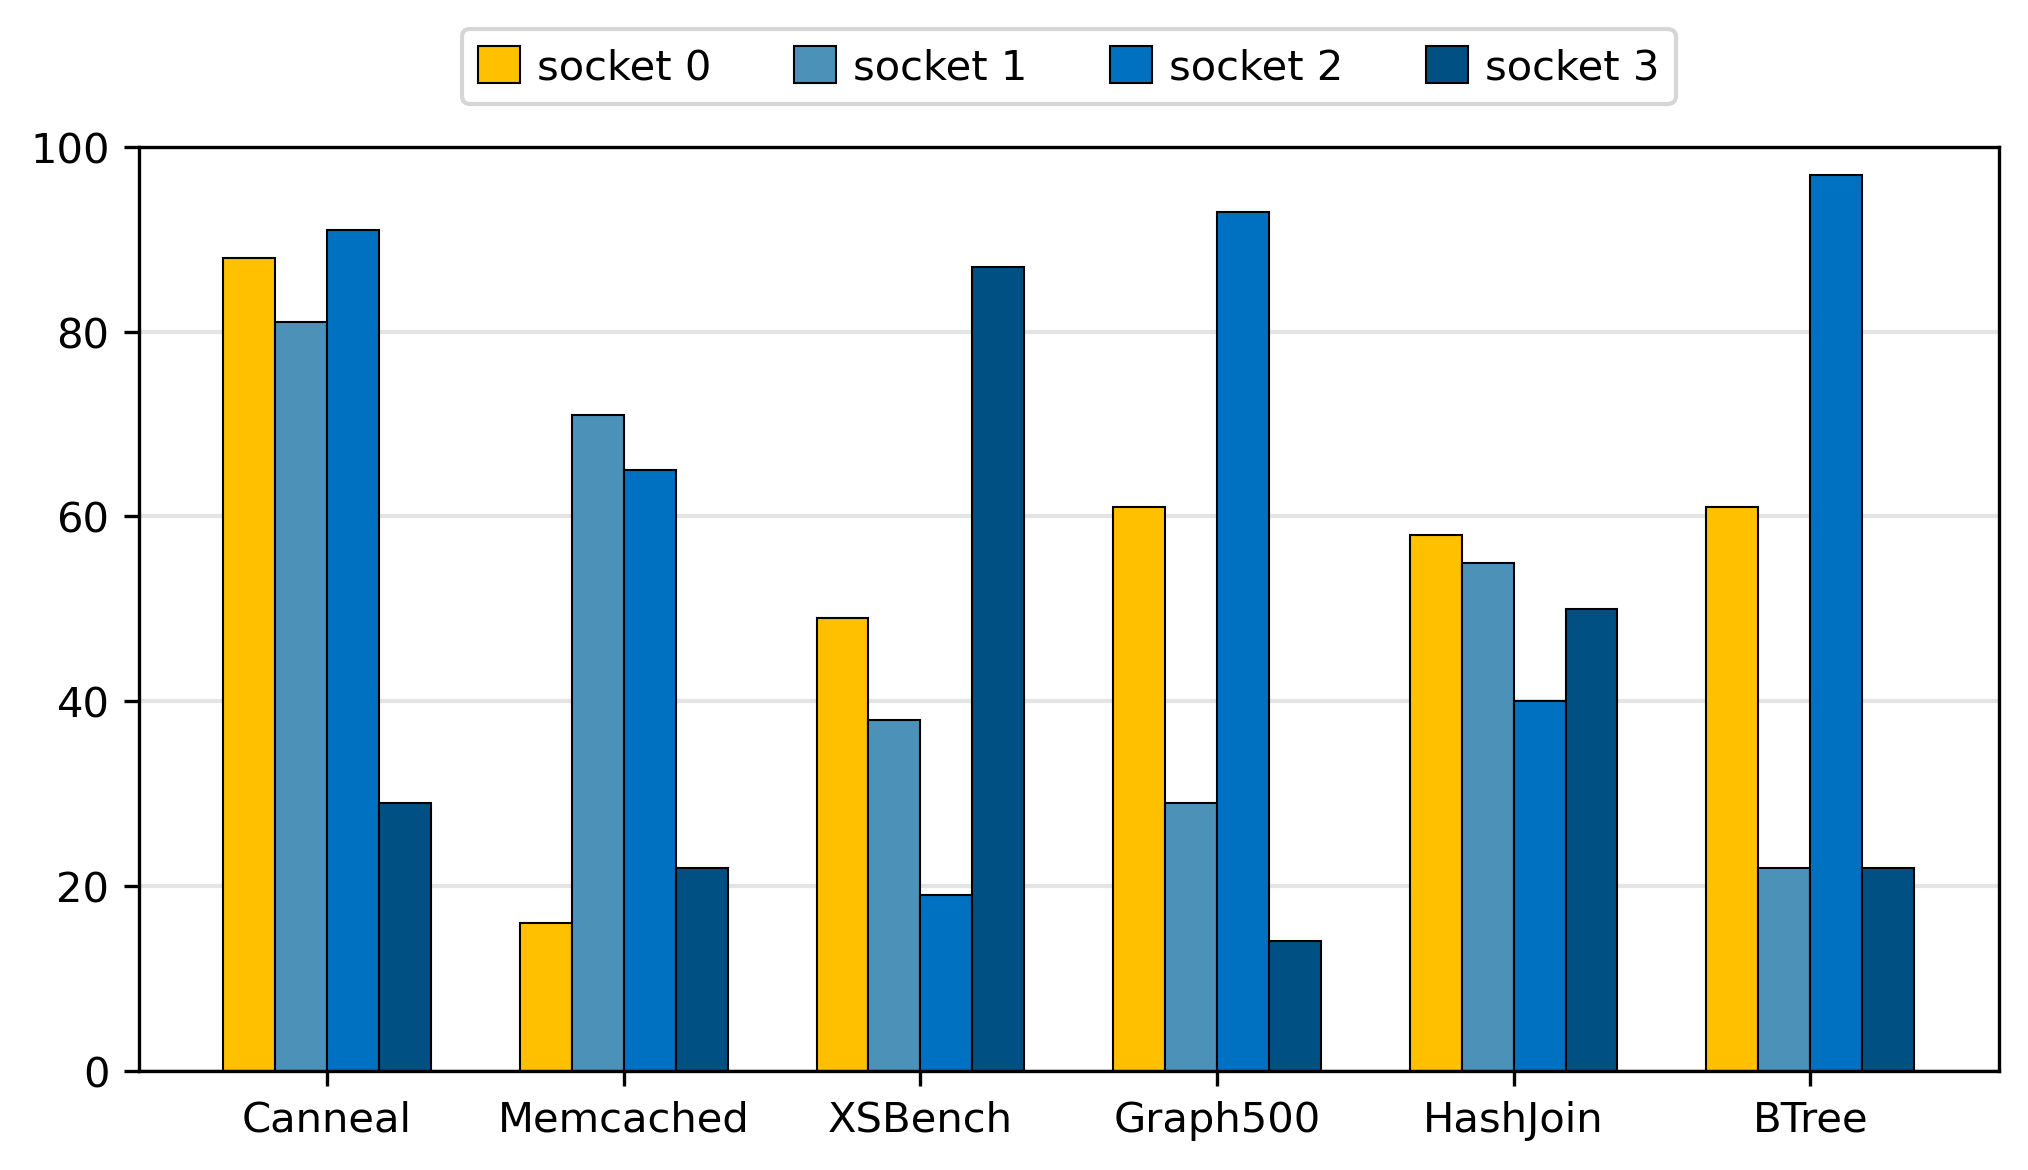
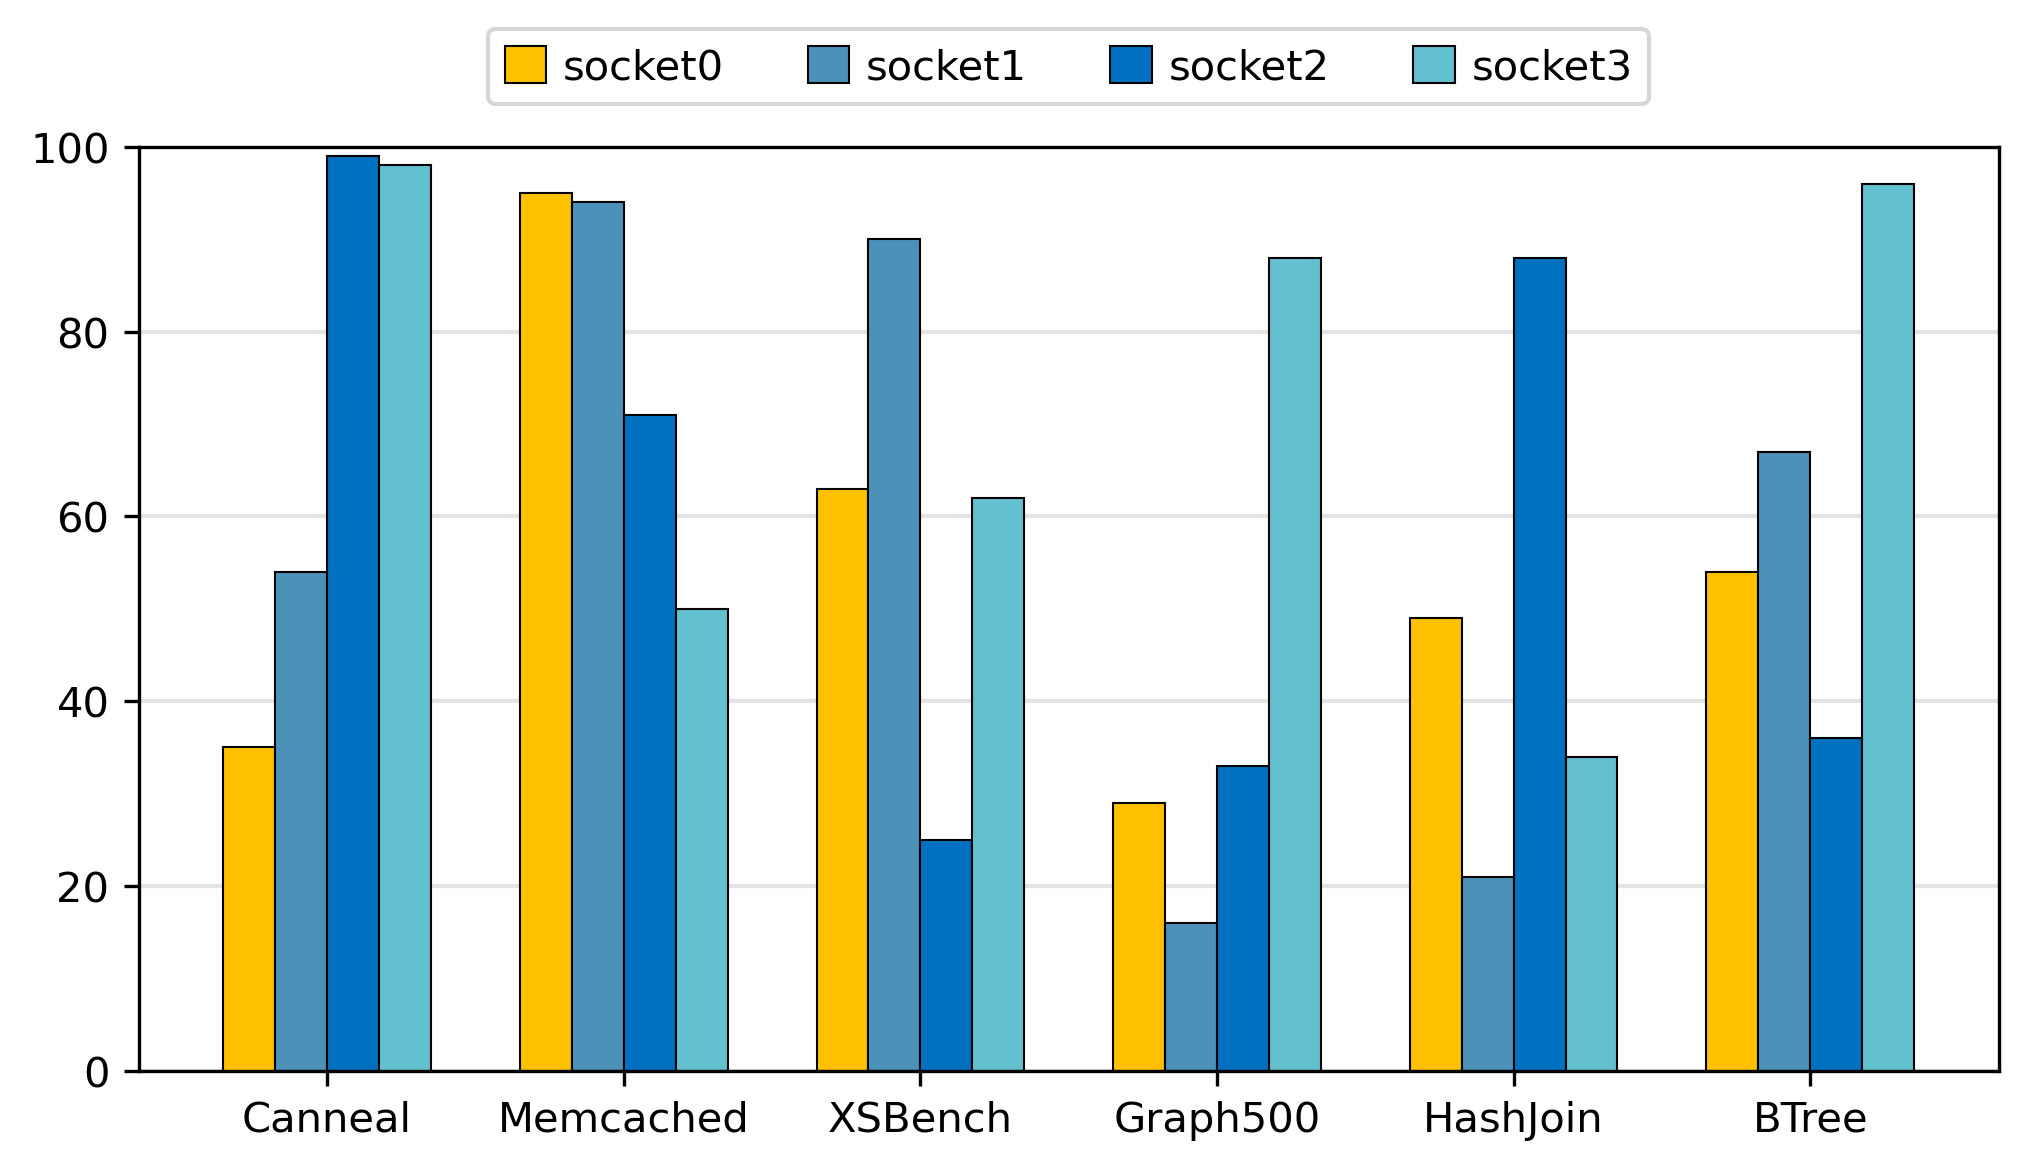
[dev] : change four color

diff --git a/docs/articles/md-docs/使用方法/index.html b/docs/articles/md-docs/使用方法/index.html
@@ -15,7 +15,7 @@
 
 <body class="light">
     <a href="https://github.com/luzhixing12345/paperplotlib.git" target="_blank" class="github-corner" aria-label="View source on GitHub"><svg width="80" height="80" viewBox="0 0 250 250" style="fill:#151513; color:#fff; position: absolute; top: 0; border: 0; right: 0;" aria-hidden="true"><path d="M0,0 L115,115 L130,115 L142,142 L250,250 L250,0 Z"></path><path d="M128.3,109.0 C113.8,99.7 119.0,89.6 119.0,89.6 C122.0,82.7 120.5,78.6 120.5,78.6 C119.2,72.0 123.4,76.3 123.4,76.3 C127.3,80.9 125.5,87.3 125.5,87.3 C122.9,97.6 130.6,101.9 134.4,103.2" fill="currentColor" style="transform-origin: 130px 106px;" class="octo-arm"></path><path d="M115.0,115.0 C114.9,115.1 118.7,116.5 119.8,115.4 L133.7,101.6 C136.9,99.2 139.9,98.4 142.2,98.6 C133.8,88.0 127.5,74.4 143.8,58.0 C148.5,53.4 154.0,51.2 159.7,51.0 C160.3,49.4 163.2,43.6 171.4,40.1 C171.4,40.1 176.1,42.5 178.8,56.2 C183.1,58.6 187.2,61.8 190.9,65.4 C194.5,69.0 197.7,73.2 200.1,77.6 C213.8,80.2 216.3,84.9 216.3,84.9 C212.7,93.1 206.9,96.0 205.4,96.6 C205.1,102.4 203.0,107.8 198.3,112.5 C181.9,128.9 168.3,122.5 157.7,114.1 C157.9,116.9 156.7,120.9 152.7,124.9 L141.0,136.5 C139.8,137.7 141.6,141.9 141.8,141.8 Z" fill="currentColor" class="octo-body"></path></svg></a><style>.github-corner:hover .octo-arm{animation:octocat-wave 560ms ease-in-out}@keyframes octocat-wave{0%,100%{transform:rotate(0)}20%,60%{transform:rotate(-25deg)}40%,80%{transform:rotate(10deg)}}@media (max-width:500px){.github-corner:hover .octo-arm{animation:none}.github-corner .octo-arm{animation:octocat-wave 560ms ease-in-out}}</style>
-    <div class="header-navigator"><ul><li><a href="#h1-0">使用方法</a><ul><li><a href="#h2-1">基础绘图</a></li></ul><ul><li><a href="#h2-2">配色</a></li></ul><ul><li><a href="#h2-3">其他配置</a></li></ul><ul><li><a href="#h2-4">长图</a></li></ul><ul><li><a href="#h2-5">x y 坐标</a></li></ul><ul><li><a href="#h2-6">y 轴范围</a></li></ul></li></ul></div><div class='markdown-body'><h1 id="h1-0">使用方法</h1><p>使用 paperplotlib(下称ppl) 只需要四步</p><ol start="1"><li>初始化一个实例对象 <code>graph</code></li></ol><ol start="2"><li>准备好你的数据, 将数据添加到 <code>graph</code> 中</li></ol><ol start="3"><li>根据需要适当修改属性</li></ol><ol start="4"><li>保存图片</li></ol><p>ppl 为您简化了初始化, 基础配置, 配色, 数据位置等一些小细节, 您可以非常简单方便的绘制一张美观的数据图</p><h2 id="h2-1">基础绘图</h2><p>ppl 提供了两种数据图表的绘图, 柱状图 (BarGraph) 和 折线图 (LineGraph)</p><p>两个类均只有<b>两个传入数据的接口</b>: <code>plot</code> <code>plot_2d</code></p><p><code>plot</code> 用于绘制简单的一维数据, 如下所示, 传入 x,y 坐标即可</p><pre class="language-python"><code><span class="Token IMPORT">import</span><span class="Token SPACE"> </span><span class="Token ImportLibName ID">paperplotlib</span><span class="Token SPACE"> </span><span class="Token AS">as</span><span class="Token SPACE"> </span><span class="Token ID">ppl</span><span class="Token LF">
+    <div class="header-navigator"><ul><li><a href="#h1-0">使用方法</a><ul><li><a href="#h2-1">基础绘图</a></li></ul><ul><li><a href="#h2-2">配色</a></li></ul><ul><li><a href="#h2-3">其他配置</a><ul><li><a href="#h3-4">长图</a></li></ul><ul><li><a href="#h3-5">x y 坐标</a></li></ul><ul><li><a href="#h3-6">y 轴范围</a></li></ul></li></ul></li></ul></div><div class='markdown-body'><h1 id="h1-0">使用方法</h1><p>使用 paperplotlib(下称ppl) 只需要四步</p><ol start="1"><li>初始化一个实例对象 <code>graph</code></li></ol><ol start="2"><li>准备好你的数据, 将数据添加到 <code>graph</code> 中</li></ol><ol start="3"><li>根据需要适当修改属性</li></ol><ol start="4"><li>保存图片</li></ol><p>ppl 为您简化了初始化, 基础配置, 配色, 数据位置等一些小细节, 您可以非常简单方便的绘制一张美观的数据图</p><h2 id="h2-1">基础绘图</h2><p>ppl 提供了两种数据图表的绘图, 柱状图 (BarGraph) 和 折线图 (LineGraph)</p><p>两个类均只有<b>两个传入数据的接口</b>: <code>plot</code> <code>plot_2d</code></p><p><code>plot</code> 用于绘制简单的一维数据, 如下所示, 传入 x,y 坐标即可</p><pre class="language-python"><code><span class="Token IMPORT">import</span><span class="Token SPACE"> </span><span class="Token ImportLibName ID">paperplotlib</span><span class="Token SPACE"> </span><span class="Token AS">as</span><span class="Token SPACE"> </span><span class="Token ID">ppl</span><span class="Token LF">
 </span><span class="Token LF">
 </span><span class="Token ID">x</span><span class="Token SPACE"> </span><span class="Token ASSIGN">=</span><span class="Token SPACE"> </span><span class="Token BraceDepth-0 LSQUAR_PAREN">[</span><span class="Token NUMBER">2</span><span class="Token COMMA">,</span><span class="Token SPACE"> </span><span class="Token NUMBER">4</span><span class="Token COMMA">,</span><span class="Token SPACE"> </span><span class="Token NUMBER">8</span><span class="Token COMMA">,</span><span class="Token SPACE"> </span><span class="Token NUMBER">16</span><span class="Token COMMA">,</span><span class="Token SPACE"> </span><span class="Token NUMBER">32</span><span class="Token BraceDepth-0 RSQUAR_PAREN">]</span><span class="Token LF">
 </span><span class="Token ID">y</span><span class="Token SPACE"> </span><span class="Token ASSIGN">=</span><span class="Token SPACE"> </span><span class="Token BraceDepth-0 LSQUAR_PAREN">[</span><span class="Token NUMBER">2</span><span class="Token COMMA">,</span><span class="Token SPACE"> </span><span class="Token NUMBER">4</span><span class="Token COMMA">,</span><span class="Token SPACE"> </span><span class="Token NUMBER">8</span><span class="Token COMMA">,</span><span class="Token SPACE"> </span><span class="Token NUMBER">16</span><span class="Token COMMA">,</span><span class="Token SPACE"> </span><span class="Token NUMBER">32</span><span class="Token BraceDepth-0 RSQUAR_PAREN">]</span><span class="Token LF">
@@ -40,8 +40,8 @@
 </span><span class="Token LF">
 </span><span class="Token ID">graph</span><span class="Token SPACE"> </span><span class="Token ASSIGN">=</span><span class="Token SPACE"> </span><span class="Token ID">ppl</span><span class="Token DOT">.</span><span class="Token ClassInstantiation ID">BarGraph</span><span class="Token BraceDepth-0 LPAREN">(</span><span class="Token BraceDepth-0 RPAREN">)</span><span class="Token LF">
 </span><span class="Token ID">graph</span><span class="Token DOT">.</span><span class="Token FunctionCall ID">plot_2d</span><span class="Token BraceDepth-0 LPAREN">(</span><span class="Token ID">y</span><span class="Token COMMA">,</span><span class="Token SPACE"> </span><span class="Token ID">group_names</span><span class="Token COMMA">,</span><span class="Token SPACE"> </span><span class="Token ID">column_names</span><span class="Token BraceDepth-0 RPAREN">)</span><span class="Token LF">
-</span><span class="Token ID">graph</span><span class="Token DOT">.</span><span class="Token FunctionCall ID">save</span><span class="Token BraceDepth-0 LPAREN">(</span><span class="Token BraceDepth-0 RPAREN">)</span></code></pre><p><a data-lightbox="example-1" href="https://raw.githubusercontent.com/luzhixing12345/paperplotlib/master/images/paperplotlib/6.png"><img src="https://raw.githubusercontent.com/luzhixing12345/paperplotlib/master/images/paperplotlib/6.png" alt=""></a></p><p>其中 <code>emphasize_index</code> 参数用于高亮某一列, 可以传入列的索引值</p><blockquote><p>这通常应用在某一列是新的方法, 其他的是对比方法, 此时其他列将会选择相近的颜色而突出该列</p></blockquote><p><a data-lightbox="example-1" href="https://raw.githubusercontent.com/luzhixing12345/paperplotlib/master/images/paperplotlib/3.png"><img src="https://raw.githubusercontent.com/luzhixing12345/paperplotlib/master/images/paperplotlib/3.png" alt=""></a></p><h2 id="h2-2">配色</h2><p>ppl 的配色采用偏冷色调的蓝色, <b>且是不建议调整的</b>, 对于 1-7 列均可以采用统一的风格绘制</p><p><a data-lightbox="example-1" href="https://raw.githubusercontent.com/luzhixing12345/paperplotlib/master/images/paperplotlib/1.png"><img src="https://raw.githubusercontent.com/luzhixing12345/paperplotlib/master/images/paperplotlib/1.png" alt=""></a></p><p><a data-lightbox="example-1" href="https://raw.githubusercontent.com/luzhixing12345/paperplotlib/master/images/paperplotlib/2.png"><img src="https://raw.githubusercontent.com/luzhixing12345/paperplotlib/master/images/paperplotlib/2.png" alt=""></a></p><p>对于超过 7 种配色的情况, 采用渐变色处理</p><p><a data-lightbox="example-1" href="https://raw.githubusercontent.com/luzhixing12345/paperplotlib/master/images/paperplotlib/7.png"><img src="https://raw.githubusercontent.com/luzhixing12345/paperplotlib/master/images/paperplotlib/7.png" alt=""></a></p><h2 id="h2-3">其他配置</h2><h2 id="h2-4">长图</h2><p>对于有大量数据集结果的情况, 您可以将 <code>width_picture</code> 设置为 <code>True</code>, 即可生成一张长图, 可以横跨两栏放置</p><pre class="language-python"><code><span class="Token ID">graph</span><span class="Token DOT">.</span><span class="Token ID">width_picture</span><span class="Token SPACE"> </span><span class="Token ASSIGN">=</span><span class="Token SPACE"> </span><span class="Token TRUE">True</span></code></pre><h2 id="h2-5">x y 坐标</h2><p>直接设置字符串即可</p><pre class="language-python"><code><span class="Token ID">graph</span><span class="Token DOT">.</span><span class="Token ID">x_label</span><span class="Token SPACE"> </span><span class="Token ASSIGN">=</span><span class="Token SPACE"> </span><span class="Token STR">&quot;Workload&quot;</span><span class="Token LF">
-</span><span class="Token ID">graph</span><span class="Token DOT">.</span><span class="Token ID">y_label</span><span class="Token SPACE"> </span><span class="Token ASSIGN">=</span><span class="Token SPACE"> </span><span class="Token STR">&quot;Max QPS\nNormalized DDR 100%&quot;</span></code></pre><h2 id="h2-6">y 轴范围</h2><p>传入一个元组类型设置范围</p><pre class="language-python"><code><span class="Token ID">graph</span><span class="Token DOT">.</span><span class="Token ID">y_lim</span><span class="Token SPACE"> </span><span class="Token ASSIGN">=</span><span class="Token SPACE"> </span><span class="Token BraceDepth-0 LPAREN">(</span><span class="Token NUMBER">0</span><span class="Token COMMA">,</span><span class="Token SPACE"> </span><span class="Token NUMBER">1.2</span><span class="Token BraceDepth-0 RPAREN">)</span></code></pre></div>
+</span><span class="Token ID">graph</span><span class="Token DOT">.</span><span class="Token FunctionCall ID">save</span><span class="Token BraceDepth-0 LPAREN">(</span><span class="Token BraceDepth-0 RPAREN">)</span></code></pre><p><a data-lightbox="example-1" href="https://raw.githubusercontent.com/luzhixing12345/paperplotlib/master/images/paperplotlib/6.png"><img src="https://raw.githubusercontent.com/luzhixing12345/paperplotlib/master/images/paperplotlib/6.png" alt=""></a></p><p>其中 <code>emphasize_index</code> 参数用于高亮某一列, 可以传入列的索引值</p><blockquote><p>这通常应用在某一列是新的方法, 其他的是对比方法, 此时其他列将会选择相近的颜色而突出该列</p></blockquote><p><a data-lightbox="example-1" href="https://raw.githubusercontent.com/luzhixing12345/paperplotlib/master/images/paperplotlib/3.png"><img src="https://raw.githubusercontent.com/luzhixing12345/paperplotlib/master/images/paperplotlib/3.png" alt=""></a></p><h2 id="h2-2">配色</h2><p>ppl 的配色采用偏冷色调的蓝色, <b>且是不建议调整的</b>, 对于 1-7 列均可以采用统一的风格绘制</p><p><a data-lightbox="example-1" href="https://raw.githubusercontent.com/luzhixing12345/paperplotlib/master/images/paperplotlib/1.png"><img src="https://raw.githubusercontent.com/luzhixing12345/paperplotlib/master/images/paperplotlib/1.png" alt=""></a></p><p><a data-lightbox="example-1" href="https://raw.githubusercontent.com/luzhixing12345/paperplotlib/master/images/paperplotlib/2.png"><img src="https://raw.githubusercontent.com/luzhixing12345/paperplotlib/master/images/paperplotlib/2.png" alt=""></a></p><p>对于超过 7 种配色的情况, 采用渐变色处理</p><p><a data-lightbox="example-1" href="https://raw.githubusercontent.com/luzhixing12345/paperplotlib/master/images/paperplotlib/7.png"><img src="https://raw.githubusercontent.com/luzhixing12345/paperplotlib/master/images/paperplotlib/7.png" alt=""></a></p><h2 id="h2-3">其他配置</h2><h3 id="h3-4">长图</h3><p>对于有大量数据集结果的情况, 您可以将 <code>width_picture</code> 设置为 <code>True</code>, 即可生成一张长图, 可以横跨两栏放置</p><pre class="language-python"><code><span class="Token ID">graph</span><span class="Token DOT">.</span><span class="Token ID">width_picture</span><span class="Token SPACE"> </span><span class="Token ASSIGN">=</span><span class="Token SPACE"> </span><span class="Token TRUE">True</span></code></pre><h3 id="h3-5">x y 坐标</h3><p>直接设置字符串即可</p><pre class="language-python"><code><span class="Token ID">graph</span><span class="Token DOT">.</span><span class="Token ID">x_label</span><span class="Token SPACE"> </span><span class="Token ASSIGN">=</span><span class="Token SPACE"> </span><span class="Token STR">&quot;Workload&quot;</span><span class="Token LF">
+</span><span class="Token ID">graph</span><span class="Token DOT">.</span><span class="Token ID">y_label</span><span class="Token SPACE"> </span><span class="Token ASSIGN">=</span><span class="Token SPACE"> </span><span class="Token STR">&quot;Max QPS\nNormalized DDR 100%&quot;</span></code></pre><h3 id="h3-6">y 轴范围</h3><p>传入一个元组类型设置范围</p><pre class="language-python"><code><span class="Token ID">graph</span><span class="Token DOT">.</span><span class="Token ID">y_lim</span><span class="Token SPACE"> </span><span class="Token ASSIGN">=</span><span class="Token SPACE"> </span><span class="Token BraceDepth-0 LPAREN">(</span><span class="Token NUMBER">0</span><span class="Token COMMA">,</span><span class="Token SPACE"> </span><span class="Token NUMBER">1.2</span><span class="Token BraceDepth-0 RPAREN">)</span></code></pre></div>
     <div class="dir-tree"><ul><li><a href="../../md-docs/README" >README</a></li></ul><ul><li><a href="../../md-docs/使用方法" >使用方法</a></li></ul><ul><li><a href="../../md-docs/使用示例" >使用示例</a></li></ul><ul><li><a href="../../md-docs/设计思路" >设计思路</a></li></ul><ul><li><a href="../../md-docs/配色选择" >配色选择</a></li></ul></div>
     <div class="zood"><a class="" href="https://github.com/luzhixing12345/zood" target="_blank">zood</a></div>
     <script type="text/javascript" src="../../../js/next_front.js"></script><script>addLink("../../md-docs/README","../../md-docs/使用示例","ab")</script><script type="text/javascript" src="../../../js/change_mode.js"></script><script>addChangeModeButton("../../../img/sun.png","../../../img/moon.png")</script><script type="text/javascript" src="../../../js/copy_code.js"></script><script>addCodeCopy("../../../img/before_copy.png","../../../img/after_copy.png")</script><script type="text/javascript" src="../../../js/navigator.js"></script><script type="text/javascript" src="../../../js/picture_preview.js"></script><script type="text/javascript" src="../../../js/global_js_configuration.js"></script>

diff --git a/paperplotlib/color.css b/paperplotlib/color.css
@@ -19,7 +19,7 @@
 }
 
 .four {
-    color: #ffc000 #4c91b8 #0070c0 #005083;
+    color: #ffc000 #4c91b8 #0070c0 #63c0cf;
 }
 
 .five {

diff --git a/test/3.py b/test/3.py
@@ -9,7 +9,7 @@ import numpy as np
 
 # 设定数组的行数a和列数b
 a = 8  # 例如:5行
-b = 8  # 例如:3列
+b = 4  # 例如:3列
 
 # 使用numpy的random.randint函数生成一个a行b列的随机整数数组
 # 假设我们想要的随机数范围是从0到99

diff --git a/md-docs/使用方法.md b/md-docs/使用方法.md
@@ -90,7 +90,7 @@ ppl 的配色采用偏冷色调的蓝色, **且是不建议调整的**, 对于 1
 
 ## 其他配置
 
-## 长图
+### 长图
 
 对于有大量数据集结果的情况, 您可以将 `width_picture` 设置为 `True`, 即可生成一张长图, 可以横跨两栏放置
 
@@ -98,7 +98,7 @@ ppl 的配色采用偏冷色调的蓝色, **且是不建议调整的**, 对于 1
 graph.width_picture = True
 ```
 
-## x y 坐标
+### x y 坐标
 
 直接设置字符串即可
 
@@ -107,7 +107,7 @@ graph.x_label = "Workload"
 graph.y_label = "Max QPS\nNormalized DDR 100%"
 ```
 
-## y 轴范围
+### y 轴范围
 
 传入一个元组类型设置范围
 
